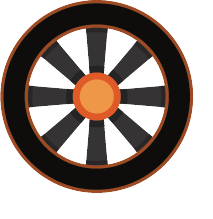
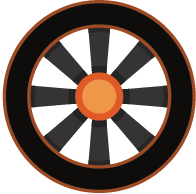
update canon move
hoàn thành

diff --git a/src/script/game/Canon.js b/src/script/game/Canon.js
@@ -16,15 +16,19 @@ export class Canon {
         this._canon.height = 100;
         this._canon.anchor.set(0.5);
         this._canon.x = Manager.width / 2;
-        this._canon.y = Manager.height - 100;
+        this._canon.y = Manager.height-100;
+        console.log(this._canon.height)
+        console.log(this._canon.width)
+
         this.container.addChild(this._canon);
     }
     getTireCanon() {
         this.tireCanon = Sprite.from('/assets/images/TireCanon.png');
         this.tireCanon.width = 50;
         this.tireCanon.height = 50;
-        this.tireCanon.x = this._canon.x + 15;
-        this.tireCanon.y = this._canon.y + 20;
+        this.tireCanon.x = this._canon.x + 35;
+        this.tireCanon.y = this._canon.y + 40;
+        this.tireCanon.anchor.set(0.5)
 
         this.container.addChild(this.tireCanon);
     }
@@ -33,8 +37,9 @@ export class Canon {
         this.tireCanon2.width = 50;
         this.tireCanon2.height = 50;
         // this.tireCanon.anchor.set(0.5)
-        this.tireCanon2.x = this._canon.x - 65;
-        this.tireCanon2.y = this._canon.y + 20;
+        this.tireCanon2.x = this._canon.x - 40;
+        this.tireCanon2.y = this._canon.y + 40;
+        this.tireCanon2.anchor.set(0.5)
 
         this.container.addChild(this.tireCanon2);
     }
@@ -47,11 +52,6 @@ export class Canon {
     get tireCanonSprite2() {
         return this.tireCanon2;
     }
-    // moveLeft(space) {
-    //     this.moveX = -space;
-    // }
-    // moveRight(space) {
-    //     this.moveX = space;
-    // }
+
     
 }

diff --git a/src/system/GameScene.js b/src/system/GameScene.js
@@ -60,9 +60,14 @@ export class GameScene extends Container {
     update(framesPassed) {
         if (this.keys['ArrowLeft'] || this.keys['a']) {
             this.canonContainer.x -= 5;
+            this.tireCanon.rotation +=1;
+            this.tireCanon2.rotation +=1;
         }
         if (this.keys['ArrowRight'] || this.keys['d']) {
             this.canonContainer.x += 5;
+            this.tireCanon.rotation +=1;
+            this.tireCanon2.rotation +=1;
+
         }
         this.bg.tilePosition.x -= 2 * framesPassed;
     }
